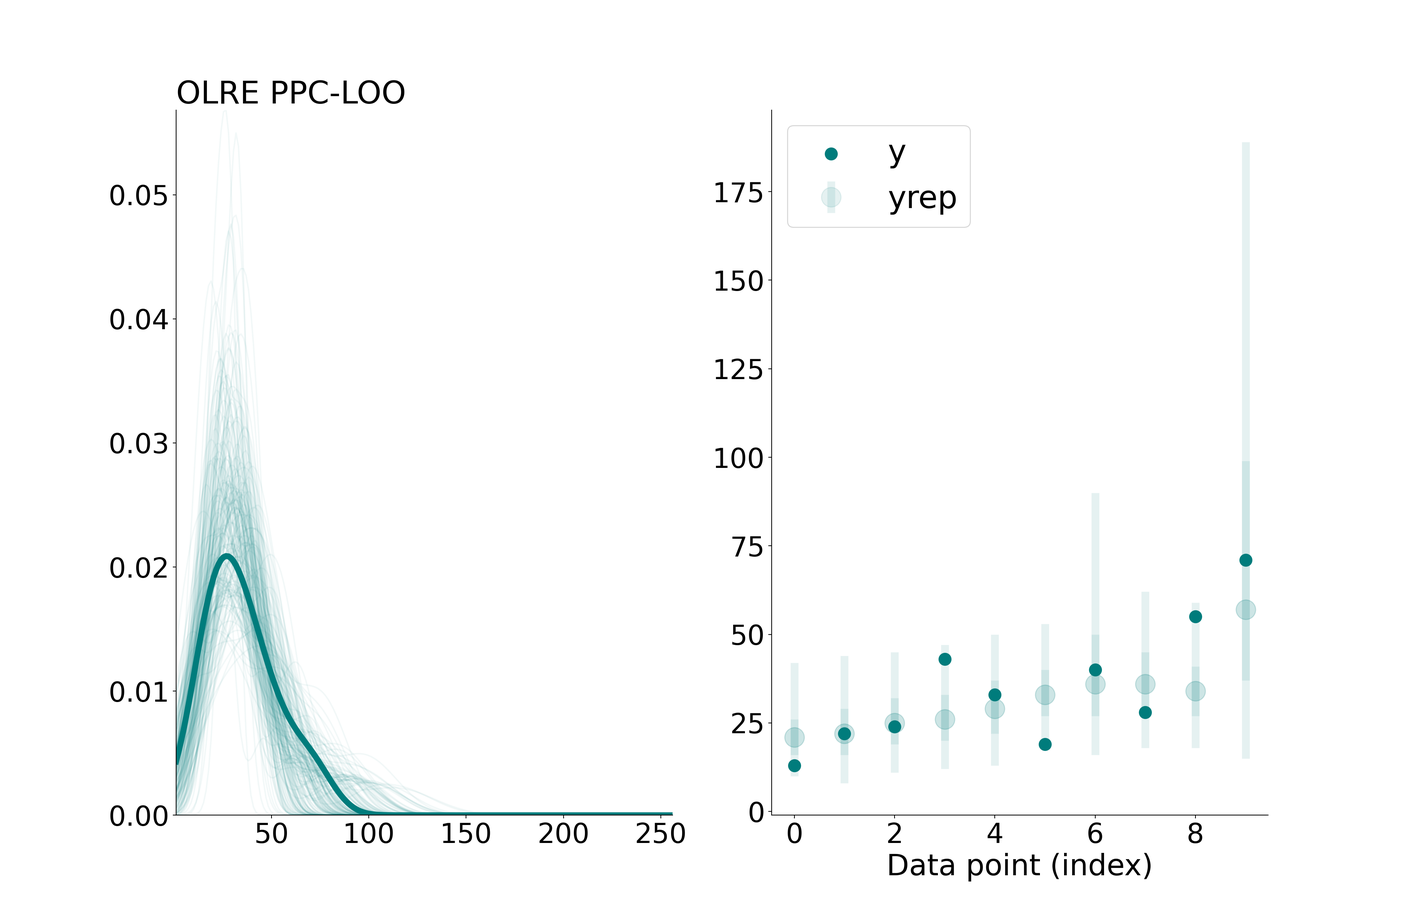
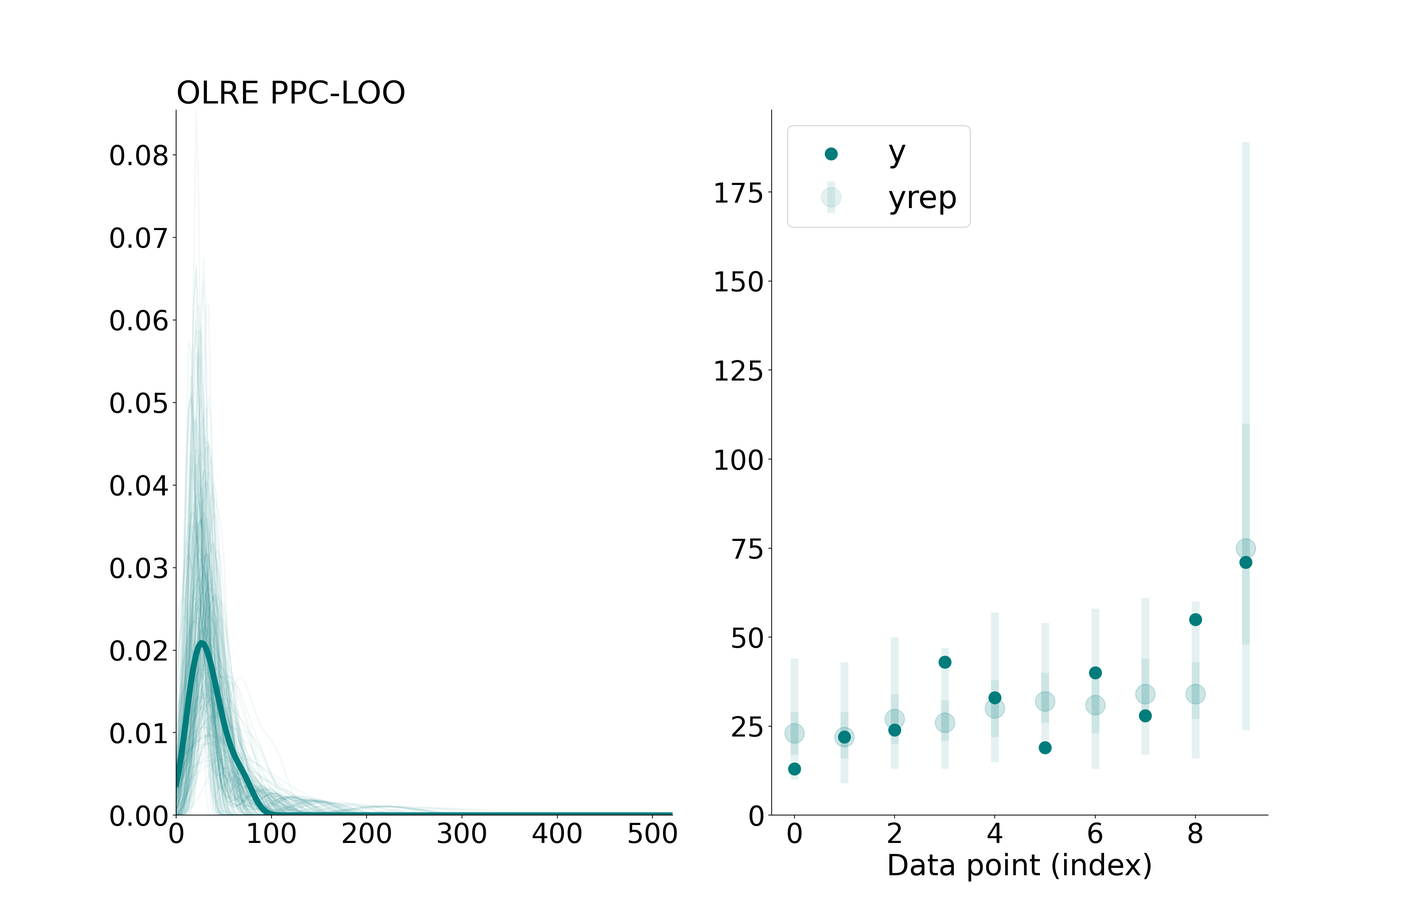
Built site for gh-pages

diff --git a/posts/OLRE/index.html b/posts/OLRE/index.html
@@ -567,11 +567,11 @@ window.Quarto = {
 <div class="cell">
 <details class="code-fold">
 <summary>Code</summary>
-<div class="sourceCode cell-code" id="cb8"><pre class="sourceCode python code-with-copy"><code class="sourceCode python"><span id="cb8-1"><a href="#cb8-1" aria-hidden="true" tabindex="-1"></a>stats <span class="op">=</span> az.summary(idata_OLRE, var_names<span class="op">=</span>[<span class="st">"^nu(?!_z).*"</span>], filter_vars<span class="op">=</span><span class="st">"regex"</span>, hdi_prob<span class="op">=</span><span class="fl">0.9</span>)</span>
+<div class="sourceCode cell-code" id="cb8"><pre class="sourceCode python code-with-copy"><code class="sourceCode python"><span id="cb8-1"><a href="#cb8-1" aria-hidden="true" tabindex="-1"></a>nu_fitted_summary <span class="op">=</span> az.summary(idata_OLRE, var_names<span class="op">=</span>[<span class="st">"^nu(?!_z).*"</span>], filter_vars<span class="op">=</span><span class="st">"regex"</span>, hdi_prob<span class="op">=</span><span class="fl">0.9</span>)</span>
 <span id="cb8-2"><a href="#cb8-2" aria-hidden="true" tabindex="-1"></a></span>
 <span id="cb8-3"><a href="#cb8-3" aria-hidden="true" tabindex="-1"></a>fig <span class="op">=</span> plt.figure(figsize<span class="op">=</span>(<span class="dv">20</span>, <span class="dv">13</span>))</span>
-<span id="cb8-4"><a href="#cb8-4" aria-hidden="true" tabindex="-1"></a>plt.hlines(y<span class="op">=</span>np.log(Kline[<span class="st">'total_tools'</span>]), xmin<span class="op">=</span>stats[<span class="st">'hdi_5%'</span>], xmax <span class="op">=</span> stats[<span class="st">'hdi_95%'</span>], color<span class="op">=</span><span class="st">"black"</span>, linewidth<span class="op">=</span><span class="dv">6</span>)</span>
-<span id="cb8-5"><a href="#cb8-5" aria-hidden="true" tabindex="-1"></a>plt.scatter(y<span class="op">=</span>np.log(Kline[<span class="st">'total_tools'</span>]), x<span class="op">=</span>stats[<span class="st">'mean'</span>], color<span class="op">=</span><span class="st">"black"</span>, s <span class="op">=</span> <span class="dv">150</span>)</span>
+<span id="cb8-4"><a href="#cb8-4" aria-hidden="true" tabindex="-1"></a>plt.hlines(y<span class="op">=</span>np.log(Kline[<span class="st">'total_tools'</span>]), xmin<span class="op">=</span>nu_fitted_summary[<span class="st">'hdi_5%'</span>], xmax <span class="op">=</span> nu_fitted_summary[<span class="st">'hdi_95%'</span>], color<span class="op">=</span><span class="st">"black"</span>, linewidth<span class="op">=</span><span class="dv">6</span>)</span>
+<span id="cb8-5"><a href="#cb8-5" aria-hidden="true" tabindex="-1"></a>plt.scatter(y<span class="op">=</span>np.log(Kline[<span class="st">'total_tools'</span>]), x<span class="op">=</span>nu_fitted_summary[<span class="st">'mean'</span>], color<span class="op">=</span><span class="st">"black"</span>, s <span class="op">=</span> <span class="dv">150</span>)</span>
 <span id="cb8-6"><a href="#cb8-6" aria-hidden="true" tabindex="-1"></a></span>
 <span id="cb8-7"><a href="#cb8-7" aria-hidden="true" tabindex="-1"></a>plt.title(<span class="st">'y ~ Fitted OLRE'</span>, loc <span class="op">=</span> <span class="st">"left"</span>)</span>
 <span id="cb8-8"><a href="#cb8-8" aria-hidden="true" tabindex="-1"></a>plt.xlabel(<span class="vs">r'$\nu$'</span>)</span>
@@ -624,22 +624,16 @@ window.Quarto = {
 <div class="cell">
 <details class="code-fold">
 <summary>Code</summary>
-<div class="sourceCode cell-code" id="cb10"><pre class="sourceCode python code-with-copy"><code class="sourceCode python"><span id="cb10-1"><a href="#cb10-1" aria-hidden="true" tabindex="-1"></a><span class="im">import</span> xarray <span class="im">as</span> xr</span>
-<span id="cb10-2"><a href="#cb10-2" aria-hidden="true" tabindex="-1"></a></span>
-<span id="cb10-3"><a href="#cb10-3" aria-hidden="true" tabindex="-1"></a><span class="cf">with</span> m_poisson_OLRE:</span>
-<span id="cb10-4"><a href="#cb10-4" aria-hidden="true" tabindex="-1"></a>    nu_rep <span class="op">=</span> pm.Normal(<span class="st">"nu_rep"</span>, mu <span class="op">=</span> <span class="dv">0</span>, sigma <span class="op">=</span> sigma, shape <span class="op">=</span> <span class="bu">len</span>(Kline))</span>
-<span id="cb10-5"><a href="#cb10-5" aria-hidden="true" tabindex="-1"></a>    log_lam <span class="op">=</span> b0 <span class="op">+</span> nu_rep <span class="op">+</span> b_pop <span class="op">*</span> Kline[<span class="st">'log_pop_z'</span>]</span>
-<span id="cb10-6"><a href="#cb10-6" aria-hidden="true" tabindex="-1"></a>    yrep <span class="op">=</span> pm.Poisson(<span class="st">"yrep"</span>, pm.math.exp(log_lam))</span>
-<span id="cb10-7"><a href="#cb10-7" aria-hidden="true" tabindex="-1"></a></span>
-<span id="cb10-8"><a href="#cb10-8" aria-hidden="true" tabindex="-1"></a>pred_yrep <span class="op">=</span> pm.sample_posterior_predictive(idata_OLRE, m_poisson_OLRE, predictions<span class="op">=</span><span class="va">True</span>, extend_inferencedata<span class="op">=</span><span class="va">False</span>, var_names <span class="op">=</span> [<span class="st">'nu_rep'</span>, <span class="st">'yrep'</span>], random_seed<span class="op">=</span><span class="dv">2</span>)</span></code><button title="Copy to Clipboard" class="code-copy-button"><i class="bi"></i></button></pre></div>
+<div class="sourceCode cell-code" id="cb10"><pre class="sourceCode python code-with-copy"><code class="sourceCode python"><span id="cb10-1"><a href="#cb10-1" aria-hidden="true" tabindex="-1"></a><span class="co"># resample both y and nu_z</span></span>
+<span id="cb10-2"><a href="#cb10-2" aria-hidden="true" tabindex="-1"></a>pred_yrep <span class="op">=</span> pm.sample_posterior_predictive(idata_OLRE, m_poisson_OLRE, predictions<span class="op">=</span><span class="va">True</span>, extend_inferencedata<span class="op">=</span><span class="va">False</span>, var_names <span class="op">=</span> [<span class="st">'y'</span>, <span class="st">'nu_z'</span>], random_seed<span class="op">=</span><span class="dv">2</span>)</span></code><button title="Copy to Clipboard" class="code-copy-button"><i class="bi"></i></button></pre></div>
 </details>
 <details class="code-fold">
 <summary>Code</summary>
 <div class="sourceCode cell-code" id="cb11"><pre class="sourceCode python code-with-copy"><code class="sourceCode python"><span id="cb11-1"><a href="#cb11-1" aria-hidden="true" tabindex="-1"></a></span>
 <span id="cb11-2"><a href="#cb11-2" aria-hidden="true" tabindex="-1"></a>fig, axes <span class="op">=</span> plt.subplots(nrows<span class="op">=</span><span class="dv">1</span>, ncols<span class="op">=</span><span class="dv">2</span>, figsize<span class="op">=</span>(<span class="dv">20</span>, <span class="dv">13</span>))</span>
 <span id="cb11-3"><a href="#cb11-3" aria-hidden="true" tabindex="-1"></a></span>
-<span id="cb11-4"><a href="#cb11-4" aria-hidden="true" tabindex="-1"></a>plot_ppc_dens(idata.observed_data[<span class="st">'y'</span>], pred_yrep.predictions[<span class="st">'yrep'</span>], axes, <span class="dv">0</span>)</span>
-<span id="cb11-5"><a href="#cb11-5" aria-hidden="true" tabindex="-1"></a>plot_ppc_intervals(idata.observed_data[<span class="st">'y'</span>], pred_yrep.predictions[<span class="st">'yrep'</span>], axes, <span class="dv">1</span>)</span>
+<span id="cb11-4"><a href="#cb11-4" aria-hidden="true" tabindex="-1"></a>plot_ppc_dens(idata.observed_data[<span class="st">'y'</span>], pred_yrep.predictions[<span class="st">'y'</span>], axes, <span class="dv">0</span>)</span>
+<span id="cb11-5"><a href="#cb11-5" aria-hidden="true" tabindex="-1"></a>plot_ppc_intervals(idata.observed_data[<span class="st">'y'</span>], pred_yrep.predictions[<span class="st">'y'</span>], axes, <span class="dv">1</span>)</span>
 <span id="cb11-6"><a href="#cb11-6" aria-hidden="true" tabindex="-1"></a>axes[<span class="dv">0</span>].set_title(<span class="st">'OLRE PPC: The right way'</span>, loc <span class="op">=</span> <span class="st">"left"</span>)</span></code><button title="Copy to Clipboard" class="code-copy-button"><i class="bi"></i></button></pre></div>
 </details>
 <div class="cell-output-display">
@@ -699,49 +693,56 @@ window.Quarto = {
 <summary>Code</summary>
 <div class="sourceCode cell-code" id="cb13"><pre class="sourceCode python code-with-copy"><code class="sourceCode python"><span id="cb13-1"><a href="#cb13-1" aria-hidden="true" tabindex="-1"></a><span class="kw">def</span> model_factory(train, test):</span>
 <span id="cb13-2"><a href="#cb13-2" aria-hidden="true" tabindex="-1"></a>    obs_idx <span class="op">=</span> np.arange(<span class="bu">len</span>(train))</span>
-<span id="cb13-3"><a href="#cb13-3" aria-hidden="true" tabindex="-1"></a>    coords <span class="op">=</span> {<span class="st">"obs"</span>: obs_idx}</span>
+<span id="cb13-3"><a href="#cb13-3" aria-hidden="true" tabindex="-1"></a>    coords <span class="op">=</span> {<span class="st">"obs_id"</span>: obs_idx}</span>
 <span id="cb13-4"><a href="#cb13-4" aria-hidden="true" tabindex="-1"></a></span>
 <span id="cb13-5"><a href="#cb13-5" aria-hidden="true" tabindex="-1"></a>    <span class="co"># recompute z-scores to avoid leakage</span></span>
 <span id="cb13-6"><a href="#cb13-6" aria-hidden="true" tabindex="-1"></a>    mean_log_pop <span class="op">=</span> np.mean(np.log(train[<span class="st">'population'</span>]))</span>
 <span id="cb13-7"><a href="#cb13-7" aria-hidden="true" tabindex="-1"></a>    sd_log_pop <span class="op">=</span> np.std(np.log(train[<span class="st">'population'</span>]))</span>
 <span id="cb13-8"><a href="#cb13-8" aria-hidden="true" tabindex="-1"></a></span>
-<span id="cb13-9"><a href="#cb13-9" aria-hidden="true" tabindex="-1"></a>    <span class="cf">with</span> pm.Model(coords <span class="op">=</span> coords) <span class="im">as</span> model:</span>
-<span id="cb13-10"><a href="#cb13-10" aria-hidden="true" tabindex="-1"></a>        b0 <span class="op">=</span> pm.Normal(<span class="st">"Intercept"</span>, mu<span class="op">=</span><span class="dv">3</span>, sigma<span class="op">=</span><span class="fl">0.5</span>)</span>
-<span id="cb13-11"><a href="#cb13-11" aria-hidden="true" tabindex="-1"></a>        b_pop <span class="op">=</span> pm.Normal(<span class="st">"slope"</span>, mu<span class="op">=</span><span class="dv">0</span>, sigma<span class="op">=</span><span class="fl">0.2</span>)</span>
-<span id="cb13-12"><a href="#cb13-12" aria-hidden="true" tabindex="-1"></a>        nu_z <span class="op">=</span> pm.Normal(<span class="st">"nu_z"</span>, mu <span class="op">=</span> <span class="dv">0</span>, sigma <span class="op">=</span> <span class="dv">1</span>, dims <span class="op">=</span> <span class="st">"obs"</span>)</span>
-<span id="cb13-13"><a href="#cb13-13" aria-hidden="true" tabindex="-1"></a>        sigma <span class="op">=</span> pm.Exponential(<span class="st">"sigma"</span>, lam <span class="op">=</span> <span class="dv">2</span>)</span>
-<span id="cb13-14"><a href="#cb13-14" aria-hidden="true" tabindex="-1"></a>        nu <span class="op">=</span> pm.Deterministic(<span class="st">"nu"</span>, nu_z<span class="op">*</span>sigma)</span>
-<span id="cb13-15"><a href="#cb13-15" aria-hidden="true" tabindex="-1"></a>        <span class="co"># linear model</span></span>
-<span id="cb13-16"><a href="#cb13-16" aria-hidden="true" tabindex="-1"></a>        log_lam <span class="op">=</span> b0 <span class="op">+</span> nu[obs_idx] <span class="op">+</span> b_pop <span class="op">*</span> train[<span class="st">'log_pop_z'</span>] </span>
-<span id="cb13-17"><a href="#cb13-17" aria-hidden="true" tabindex="-1"></a>        <span class="co">## Poisson likelihood</span></span>
-<span id="cb13-18"><a href="#cb13-18" aria-hidden="true" tabindex="-1"></a>        y <span class="op">=</span> pm.Poisson(<span class="st">"y"</span>, mu<span class="op">=</span>pm.math.exp(log_lam), observed<span class="op">=</span>train[<span class="st">'total_tools'</span>])</span>
-<span id="cb13-19"><a href="#cb13-19" aria-hidden="true" tabindex="-1"></a></span>
-<span id="cb13-20"><a href="#cb13-20" aria-hidden="true" tabindex="-1"></a>        nu_rep <span class="op">=</span> pm.Normal(<span class="st">"nu_rep"</span>, mu <span class="op">=</span> <span class="dv">0</span>, sigma <span class="op">=</span> sigma)</span>
-<span id="cb13-21"><a href="#cb13-21" aria-hidden="true" tabindex="-1"></a>        yrep <span class="op">=</span> pm.Poisson(<span class="st">"yrep"</span>, pm.math.exp(b0 <span class="op">+</span> nu_rep <span class="op">+</span> b_pop <span class="op">*</span> (np.log(test[<span class="st">'population'</span>]) <span class="op">-</span> mean_log_pop)<span class="op">/</span>sd_log_pop))</span>
-<span id="cb13-22"><a href="#cb13-22" aria-hidden="true" tabindex="-1"></a>    </span>
-<span id="cb13-23"><a href="#cb13-23" aria-hidden="true" tabindex="-1"></a>        idata_loo <span class="op">=</span> pm.sample(<span class="dv">1000</span>, chains <span class="op">=</span> <span class="dv">1</span>, target_accept <span class="op">=</span> <span class="fl">0.99</span>, random_seed<span class="op">=</span><span class="dv">99</span>)</span>
+<span id="cb13-9"><a href="#cb13-9" aria-hidden="true" tabindex="-1"></a>    train[<span class="st">'log_pop_z'</span>] <span class="op">=</span> stats.zscore(np.log(train[<span class="st">'population'</span>]))</span>
+<span id="cb13-10"><a href="#cb13-10" aria-hidden="true" tabindex="-1"></a></span>
+<span id="cb13-11"><a href="#cb13-11" aria-hidden="true" tabindex="-1"></a>    <span class="cf">with</span> pm.Model(coords <span class="op">=</span> coords) <span class="im">as</span> model:</span>
+<span id="cb13-12"><a href="#cb13-12" aria-hidden="true" tabindex="-1"></a>        log_pop_z <span class="op">=</span> pm.Data(<span class="st">"log_pop_z"</span>, train[<span class="st">'log_pop_z'</span>], dims <span class="op">=</span> <span class="st">"obs_id"</span>)</span>
+<span id="cb13-13"><a href="#cb13-13" aria-hidden="true" tabindex="-1"></a>        y <span class="op">=</span> pm.Data(<span class="st">"y"</span>, train[<span class="st">'total_tools'</span>], dims <span class="op">=</span> <span class="st">"obs_id"</span>)</span>
+<span id="cb13-14"><a href="#cb13-14" aria-hidden="true" tabindex="-1"></a></span>
+<span id="cb13-15"><a href="#cb13-15" aria-hidden="true" tabindex="-1"></a>        b0 <span class="op">=</span> pm.Normal(<span class="st">"Intercept"</span>, mu<span class="op">=</span><span class="dv">3</span>, sigma<span class="op">=</span><span class="fl">0.5</span>)</span>
+<span id="cb13-16"><a href="#cb13-16" aria-hidden="true" tabindex="-1"></a>        b_pop <span class="op">=</span> pm.Normal(<span class="st">"slope"</span>, mu<span class="op">=</span><span class="dv">0</span>, sigma<span class="op">=</span><span class="fl">0.2</span>)</span>
+<span id="cb13-17"><a href="#cb13-17" aria-hidden="true" tabindex="-1"></a>        nu_z <span class="op">=</span> pm.Normal(<span class="st">"nu_z"</span>, mu <span class="op">=</span> <span class="dv">0</span>, sigma <span class="op">=</span> <span class="dv">1</span>, dims <span class="op">=</span> <span class="st">"obs_id"</span>)</span>
+<span id="cb13-18"><a href="#cb13-18" aria-hidden="true" tabindex="-1"></a>        sigma <span class="op">=</span> pm.Exponential(<span class="st">"sigma"</span>, lam <span class="op">=</span> <span class="dv">2</span>)</span>
+<span id="cb13-19"><a href="#cb13-19" aria-hidden="true" tabindex="-1"></a>        nu <span class="op">=</span> pm.Deterministic(<span class="st">"nu"</span>, nu_z<span class="op">*</span>sigma, dims <span class="op">=</span> <span class="st">"obs_id"</span>)</span>
+<span id="cb13-20"><a href="#cb13-20" aria-hidden="true" tabindex="-1"></a>        <span class="co"># linear model</span></span>
+<span id="cb13-21"><a href="#cb13-21" aria-hidden="true" tabindex="-1"></a>        log_lam <span class="op">=</span> pm.Deterministic(<span class="st">"log_lam"</span>, b0 <span class="op">+</span> nu <span class="op">+</span> b_pop <span class="op">*</span> log_pop_z, dims <span class="op">=</span> <span class="st">"obs_id"</span>)</span>
+<span id="cb13-22"><a href="#cb13-22" aria-hidden="true" tabindex="-1"></a>        <span class="co">## Poisson likelihood</span></span>
+<span id="cb13-23"><a href="#cb13-23" aria-hidden="true" tabindex="-1"></a>        y <span class="op">=</span> pm.Poisson(<span class="st">"y_obs"</span>, mu<span class="op">=</span>pm.math.exp(log_lam), observed<span class="op">=</span>y, dims <span class="op">=</span> <span class="st">"obs_id"</span>)</span>
 <span id="cb13-24"><a href="#cb13-24" aria-hidden="true" tabindex="-1"></a>    </span>
-<span id="cb13-25"><a href="#cb13-25" aria-hidden="true" tabindex="-1"></a>    pred <span class="op">=</span> pm.sample_posterior_predictive(idata_loo, model, predictions<span class="op">=</span><span class="va">True</span>, extend_inferencedata<span class="op">=</span><span class="va">False</span>, var_names <span class="op">=</span> [<span class="st">'yrep'</span>], random_seed<span class="op">=</span><span class="dv">2</span>)</span>
-<span id="cb13-26"><a href="#cb13-26" aria-hidden="true" tabindex="-1"></a></span>
-<span id="cb13-27"><a href="#cb13-27" aria-hidden="true" tabindex="-1"></a>    <span class="cf">return</span> pred.predictions[<span class="st">'yrep'</span>]</span>
-<span id="cb13-28"><a href="#cb13-28" aria-hidden="true" tabindex="-1"></a></span>
-<span id="cb13-29"><a href="#cb13-29" aria-hidden="true" tabindex="-1"></a>test_preds <span class="op">=</span> []</span>
-<span id="cb13-30"><a href="#cb13-30" aria-hidden="true" tabindex="-1"></a></span>
-<span id="cb13-31"><a href="#cb13-31" aria-hidden="true" tabindex="-1"></a><span class="cf">for</span> i <span class="kw">in</span> <span class="bu">range</span>(<span class="bu">len</span>(Kline)):</span>
-<span id="cb13-32"><a href="#cb13-32" aria-hidden="true" tabindex="-1"></a>    train <span class="op">=</span> Kline.drop(index <span class="op">=</span> Kline.index[i])</span>
-<span id="cb13-33"><a href="#cb13-33" aria-hidden="true" tabindex="-1"></a>    test <span class="op">=</span> Kline.iloc[[i]]</span>
-<span id="cb13-34"><a href="#cb13-34" aria-hidden="true" tabindex="-1"></a>    yrep_loo <span class="op">=</span> model_factory(train, test)</span>
-<span id="cb13-35"><a href="#cb13-35" aria-hidden="true" tabindex="-1"></a>    test_preds.append(yrep_loo)</span></code><button title="Copy to Clipboard" class="code-copy-button"><i class="bi"></i></button></pre></div>
+<span id="cb13-25"><a href="#cb13-25" aria-hidden="true" tabindex="-1"></a>        idata_loo <span class="op">=</span> pm.sample(<span class="dv">1000</span>, chains <span class="op">=</span> <span class="dv">1</span>, target_accept <span class="op">=</span> <span class="fl">0.99</span>, random_seed<span class="op">=</span><span class="dv">99</span>)</span>
+<span id="cb13-26"><a href="#cb13-26" aria-hidden="true" tabindex="-1"></a>    </span>
+<span id="cb13-27"><a href="#cb13-27" aria-hidden="true" tabindex="-1"></a>    <span class="cf">with</span> model:</span>
+<span id="cb13-28"><a href="#cb13-28" aria-hidden="true" tabindex="-1"></a>        pm.set_data({<span class="st">"log_pop_z"</span>: (np.log(test[<span class="st">'population'</span>]) <span class="op">-</span> mean_log_pop)<span class="op">/</span>sd_log_pop, <span class="st">"y"</span>: test[<span class="st">'total_tools'</span>]}, coords<span class="op">=</span>{<span class="st">"obs_id"</span>: np.array([<span class="bu">len</span>(train)<span class="op">+</span><span class="dv">1</span>])})</span>
+<span id="cb13-29"><a href="#cb13-29" aria-hidden="true" tabindex="-1"></a>        </span>
+<span id="cb13-30"><a href="#cb13-30" aria-hidden="true" tabindex="-1"></a>        idata_loo.extend(pm.sample_posterior_predictive(idata_loo, random_seed<span class="op">=</span><span class="dv">2</span>))</span>
+<span id="cb13-31"><a href="#cb13-31" aria-hidden="true" tabindex="-1"></a></span>
+<span id="cb13-32"><a href="#cb13-32" aria-hidden="true" tabindex="-1"></a>    <span class="cf">return</span> idata_loo.posterior_predictive[<span class="st">'y_obs'</span>]</span>
+<span id="cb13-33"><a href="#cb13-33" aria-hidden="true" tabindex="-1"></a></span>
+<span id="cb13-34"><a href="#cb13-34" aria-hidden="true" tabindex="-1"></a>test_preds <span class="op">=</span> []</span>
+<span id="cb13-35"><a href="#cb13-35" aria-hidden="true" tabindex="-1"></a></span>
+<span id="cb13-36"><a href="#cb13-36" aria-hidden="true" tabindex="-1"></a><span class="cf">for</span> i <span class="kw">in</span> <span class="bu">range</span>(<span class="bu">len</span>(Kline)):</span>
+<span id="cb13-37"><a href="#cb13-37" aria-hidden="true" tabindex="-1"></a>    train <span class="op">=</span> Kline.drop(index <span class="op">=</span> Kline.index[i])</span>
+<span id="cb13-38"><a href="#cb13-38" aria-hidden="true" tabindex="-1"></a>    test <span class="op">=</span> Kline.iloc[[i]]</span>
+<span id="cb13-39"><a href="#cb13-39" aria-hidden="true" tabindex="-1"></a>    yrep_loo <span class="op">=</span> model_factory(train, test)</span>
+<span id="cb13-40"><a href="#cb13-40" aria-hidden="true" tabindex="-1"></a>    test_preds.append(yrep_loo)</span></code><button title="Copy to Clipboard" class="code-copy-button"><i class="bi"></i></button></pre></div>
 </details>
 <details class="code-fold">
 <summary>Code</summary>
 <div class="sourceCode cell-code" id="cb14"><pre class="sourceCode python code-with-copy"><code class="sourceCode python"><span id="cb14-1"><a href="#cb14-1" aria-hidden="true" tabindex="-1"></a></span>
-<span id="cb14-2"><a href="#cb14-2" aria-hidden="true" tabindex="-1"></a>loo_preds_combined <span class="op">=</span> xr.concat(test_preds, dim<span class="op">=</span><span class="st">'obs'</span>).transpose(<span class="st">'chain'</span>, <span class="st">'draw'</span>, <span class="st">'obs'</span>, <span class="st">'yrep_dim_2'</span>).squeeze(<span class="st">'yrep_dim_2'</span>)</span>
-<span id="cb14-3"><a href="#cb14-3" aria-hidden="true" tabindex="-1"></a>        </span>
-<span id="cb14-4"><a href="#cb14-4" aria-hidden="true" tabindex="-1"></a>fig, axes <span class="op">=</span> plt.subplots(nrows<span class="op">=</span><span class="dv">1</span>, ncols<span class="op">=</span><span class="dv">2</span>, figsize<span class="op">=</span>(<span class="dv">20</span>, <span class="dv">13</span>))</span>
-<span id="cb14-5"><a href="#cb14-5" aria-hidden="true" tabindex="-1"></a>plot_ppc_dens(idata.observed_data[<span class="st">'y'</span>], loo_preds_combined, axes, <span class="dv">0</span>)</span>
-<span id="cb14-6"><a href="#cb14-6" aria-hidden="true" tabindex="-1"></a>plot_ppc_intervals(idata.observed_data[<span class="st">'y'</span>], loo_preds_combined, axes, <span class="dv">1</span>)</span>
-<span id="cb14-7"><a href="#cb14-7" aria-hidden="true" tabindex="-1"></a>axes[<span class="dv">0</span>].set_title(<span class="st">'OLRE PPC-LOO'</span>, loc <span class="op">=</span> <span class="st">"left"</span>)</span></code><button title="Copy to Clipboard" class="code-copy-button"><i class="bi"></i></button></pre></div>
+<span id="cb14-2"><a href="#cb14-2" aria-hidden="true" tabindex="-1"></a><span class="im">import</span> xarray <span class="im">as</span> xr</span>
+<span id="cb14-3"><a href="#cb14-3" aria-hidden="true" tabindex="-1"></a></span>
+<span id="cb14-4"><a href="#cb14-4" aria-hidden="true" tabindex="-1"></a>loo_preds_combined <span class="op">=</span> xr.concat(test_preds, dim<span class="op">=</span><span class="st">'y_obs'</span>).transpose(<span class="st">'chain'</span>, <span class="st">'draw'</span>, <span class="st">'y_obs'</span>, <span class="st">'obs_id'</span>).squeeze(<span class="st">'obs_id'</span>)</span>
+<span id="cb14-5"><a href="#cb14-5" aria-hidden="true" tabindex="-1"></a>        </span>
+<span id="cb14-6"><a href="#cb14-6" aria-hidden="true" tabindex="-1"></a>fig, axes <span class="op">=</span> plt.subplots(nrows<span class="op">=</span><span class="dv">1</span>, ncols<span class="op">=</span><span class="dv">2</span>, figsize<span class="op">=</span>(<span class="dv">20</span>, <span class="dv">13</span>))</span>
+<span id="cb14-7"><a href="#cb14-7" aria-hidden="true" tabindex="-1"></a>plot_ppc_dens(idata.observed_data[<span class="st">'y'</span>], loo_preds_combined, axes, <span class="dv">0</span>)</span>
+<span id="cb14-8"><a href="#cb14-8" aria-hidden="true" tabindex="-1"></a>plot_ppc_intervals(idata.observed_data[<span class="st">'y'</span>], loo_preds_combined, axes, <span class="dv">1</span>)</span>
+<span id="cb14-9"><a href="#cb14-9" aria-hidden="true" tabindex="-1"></a>axes[<span class="dv">0</span>].set_title(<span class="st">'OLRE PPC-LOO'</span>, loc <span class="op">=</span> <span class="st">"left"</span>)</span></code><button title="Copy to Clipboard" class="code-copy-button"><i class="bi"></i></button></pre></div>
 </details>
 <div class="cell-output-display">
 <div class="quarto-figure quarto-figure-center">

diff --git a/index.html b/index.html
@@ -207,7 +207,7 @@ window.Quarto = {
 
 <div class="quarto-listing quarto-listing-container-default" id="listing-listing">
 <div class="list quarto-listing-default">
-<div class="quarto-post image-right" data-index="0" data-categories="Prediction,Statistics,brms,PyMC" data-listing-date-sort="1731715200000" data-listing-file-modified-sort="1732008360360" data-listing-date-modified-sort="NaN" data-listing-reading-time-sort="15" data-listing-word-count-sort="2981">
+<div class="quarto-post image-right" data-index="0" data-categories="Prediction,Statistics,brms,PyMC" data-listing-date-sort="1731715200000" data-listing-file-modified-sort="1732187536558" data-listing-date-modified-sort="NaN" data-listing-reading-time-sort="15" data-listing-word-count-sort="2983">
 <div class="thumbnail">
 <p><a href="./posts/OLRE/index.html" class="no-external"></a></p><a href="./posts/OLRE/index.html" class="no-external">
 <p><img loading="lazy" src="./posts/OLRE/image.png" class="thumbnail-image"></p>
